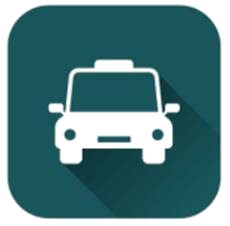
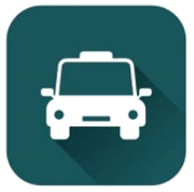
Shrink images
Resize images to take up less space. Also rename image files for simplicity.

diff --git a/index.html b/index.html
@@ -7,7 +7,7 @@
 	<meta name="description" content="Website for the Louisa County Commission on Aging.">
 	<meta name="author" content="Brendan Ferreri-Hanberry" />
 	<link rel="schema.dcterms" href="http://purl.org/dc/terms/">
-	<meta name="dcterms.modified" content="2021-5-2" />
+	<meta name="dcterms.modified" content="2021-5-4" />
 	<meta name="viewport" content="width=device-width initial-scale=1" >
 	<meta charset="UTF-8">
 	<link rel="stylesheet" type="text/css" href="LCCA-stylesheet.css" />
@@ -23,7 +23,7 @@
 <div class="heading">
 	<h1>
 		<a href="index.html" class="title">
-			<img class="left small" src="Louisa-County-Seal-color1.png" alt="Louisa County Seal" />
+			<img class="left small" src="Louisa-County-Seal-color.png" alt="Louisa County Seal" />
 			<span class="title-text">Louisa County 
 			<br />
 			Commission on Aging</span>
@@ -41,7 +41,7 @@
 </div>
 
 <div>
-<img src="banner-image1.jpg" class="banner" alt="elderly people"/>
+<img src="banner-image.jpg" class="banner" alt="elderly people"/>
 </div>
 
 <!-- Top menu -->
@@ -110,13 +110,13 @@
 <!-- Articles with images and captions -->
 
 <div class="mySlides fade">
-	<img src="entrepreneurs1.jpg" style="width:100%" alt="father and son entrepreneurs">
+	<img src="entrepreneurs.jpg" style="width:100%" alt="father and son entrepreneurs">
     <div class="caption"><span class="date">4/6/2021</span>
 	<h2><a href="https://www.nextavenue.org/what-to-know-before-starting-a-franchise-business/" target="_blank">Starting a Franchise After 50</a></h2></div>
 </div>
 
 <div class="mySlides fade">
-	<img src="signing-of-proclamation1.jpg" style="width:100%" alt="proclamation">
+	<img src="signing-of-proclamation.jpg" style="width:100%" alt="proclamation">
     <div class="caption"><span class="date">4/5/2021</span>
 	<h2><a href="2021-OAM-Resolution.pdf" target="_blank">Louisa Co. Declares May Older Americans Month</a></h2></div>
 </div>
@@ -128,13 +128,13 @@
 </div>
 
 <div class="mySlides fade">
-	<img src="nursing-home1.jpg" style="width:100%" alt="elderly woman in nursing home hallway">
+	<img src="nursing-home.jpg" style="width:100%" alt="elderly woman in nursing home hallway">
     <div class="caption"><span class="date">3/26/2021</span>
 	<h2><a href="https://www.nextavenue.org/nursing-home-vulnerabilities-2/" target="_blank">Nursing Home Shortcomings</a></h2></div>
 </div>
 
 <div class="mySlides fade">
-	<img src="Age-Discrimination4.jpg" style="width:100%" alt="gavel and book">
+	<img src="Age-Discrimination.jpg" style="width:100%" alt="gavel and book">
     <div class="caption"><span class="date">2/27/2021</span>
 	<h2><a href="https://www.forbes.com/sites/sheilacallaham/2021/02/27/employers-on-notice-signs-point-to-more-accountability-for-age-discrimination" target="_blank">Accountability for Age Discrimination</a></h2></div>
 </div>
@@ -184,7 +184,7 @@
 	</li>
 	<li class="dropdown">
 		<a href="https://www.louisacounty.com/"  target="_blank">
-		<img src="Louisa-County-Seal-color1.png" class="menu-img" alt="Louisa County Seal"/>
+		<img src="Louisa-County-Seal-color.png" class="menu-img" alt="Louisa County Seal"/>
 		<span class="bottom-menu">
 		LOUISA COUNTY
 		</span>
@@ -193,7 +193,7 @@
 
 	<li class="dropdown">
 		<a href="https://cv-adc.com/what-is-an-advance-directive"  target="_blank">
-			<img src="Advance-Directives1.png" class="menu-img" alt="advance directives question mark"/>
+			<img src="Advance-Directives.png" class="menu-img" alt="advance directives question mark"/>
 			<span class="bottom-menu">
 			ADVANCE DIRECTIVES
 			</span>
